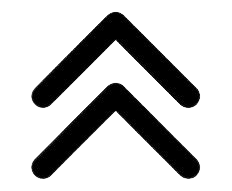
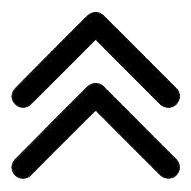
ultimoscambios

diff --git a/CSS/style.css b/CSS/style.css
@@ -41,11 +41,11 @@ header div picture{
 header div picture img{
     border-radius: 40vh;
     background-color: #f05edd8a;
-    width: 40vh;  
+    width: 35vh;  
     padding: 1vh;
     margin: 3vh;
     margin-bottom: 7vh;
-    animation: moveIcon 4s ease-in-out infinite;
+    /* animation: moveIcon 4s ease-in-out infinite; */
 }
 
 header p{
@@ -64,8 +64,9 @@ header p{
 }
 
 .flecha img{
-    width: 15vh;
-    animation: moveIcon 4s ease-in-out infinite;
+    width: 10vh;
+    margin-bottom: 2vh;
+    /* animation: moveIcon 4s ease-in-out infinite; */
 }
 
 nav ul{
@@ -82,7 +83,7 @@ nav ul li{
     padding: 1vh;
     margin-bottom: 4vh;
     border: 1px solid;
-    width: 35vh;
+    width: 70%;
     text-align: center;
     backdrop-filter: blur(21px) saturate(180%);
     -webkit-backdrop-filter: blur(21px) saturate(180%);
@@ -95,9 +96,9 @@ nav ul li a{
     height: 20vh;
     text-decoration: none;
     padding: 2vh;
-    margin: 3vh;
     font-size: 1.2em;
     color: #fff;
+    text-align: center;
 }
 
 .botonvolver img{
@@ -369,7 +370,8 @@ button[type="submit"]:hover {
     /* HEADER */
 
     header div picture img{
-        width: 60vh;  
+        width: 60vh; 
+        animation: moveIcon 4s ease-in-out infinite; 
     }
     
     header p{
@@ -379,6 +381,7 @@ button[type="submit"]:hover {
     
     .flecha img{
         width: 18vh;
+        animation: moveIcon 4s ease-in-out infinite;
     }
     
     nav ul{
